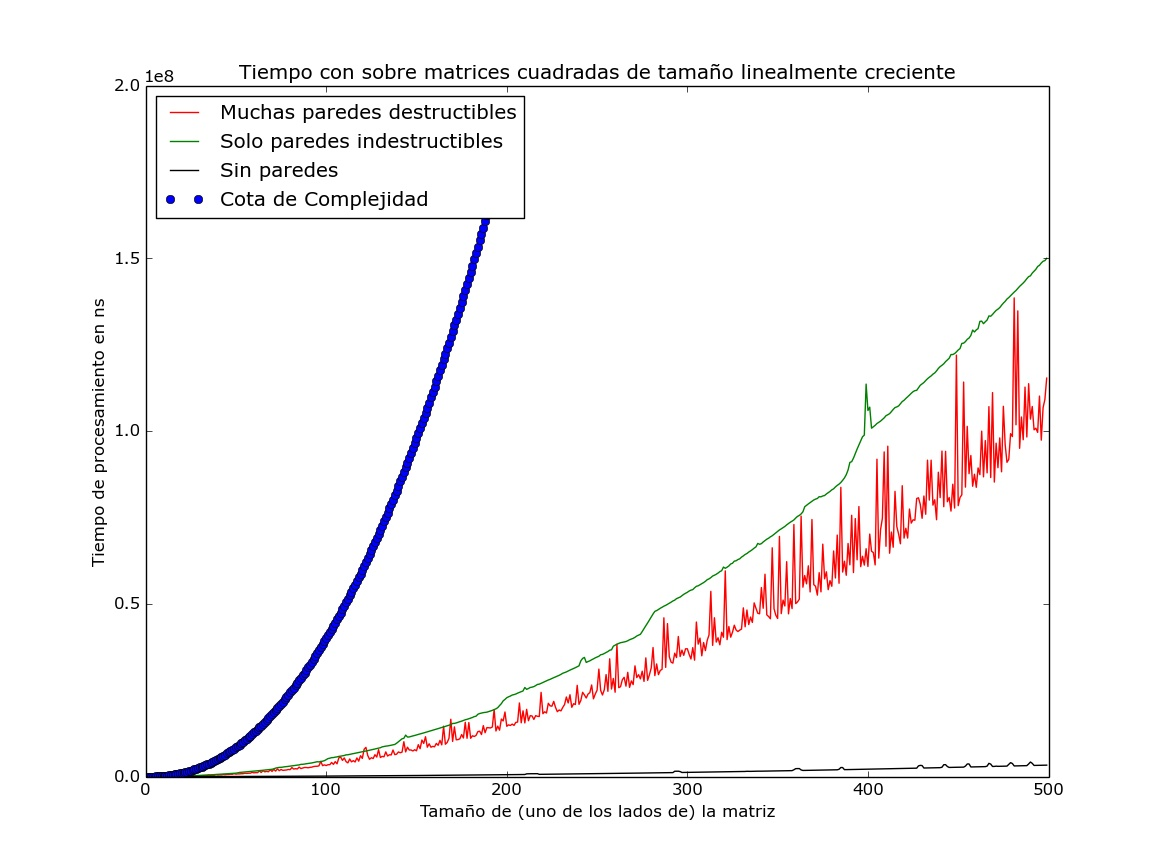
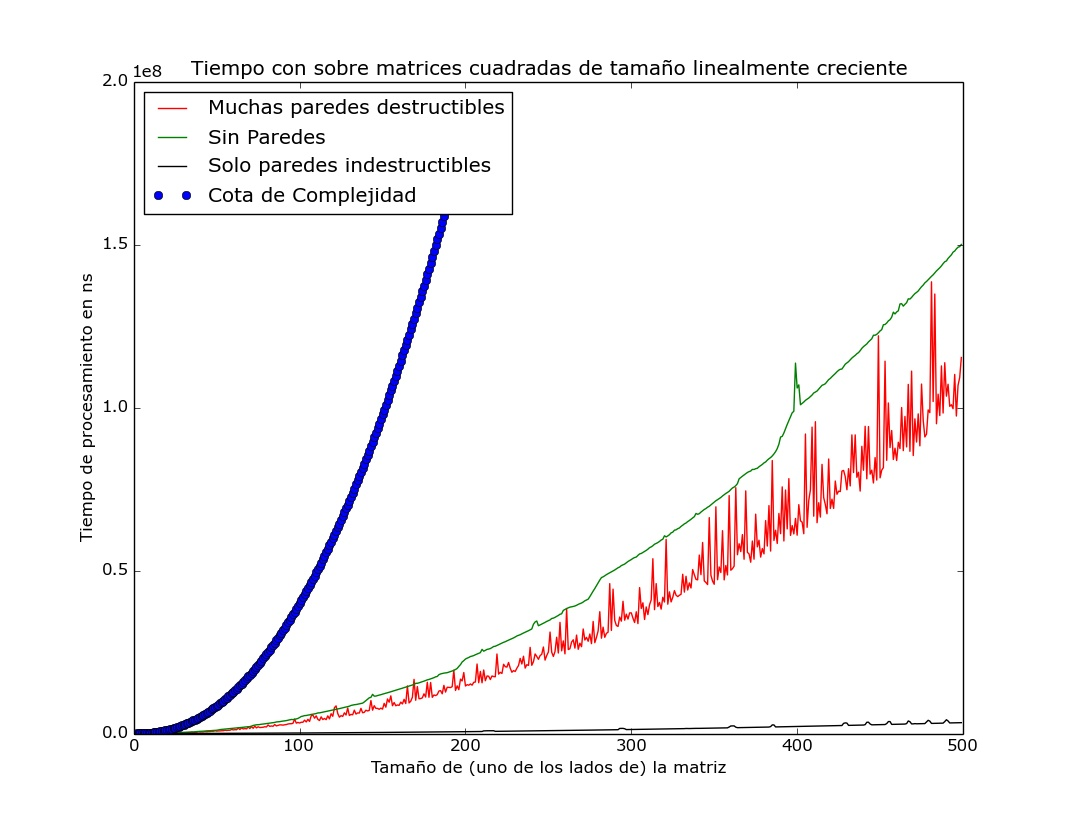
fix grafico ej2

diff --git a/exp/graficarEj2.py b/exp/graficarEj2.py
@@ -54,8 +54,8 @@ fig = plt.figure()
 fig.patch.set_facecolor('white')
 ax1 = fig.add_subplot(111)
 pylab.plot(tamanosMatricesNP, promedio1NP,'r', label= 'Muchas paredes destructibles')
-pylab.plot(tamanosMatricesNP, promedio2NP,'g', label= 'Solo paredes indestructibles')
-pylab.plot(tamanosMatricesNP, promedio3NP,'black', label= 'Sin paredes')
+pylab.plot(tamanosMatricesNP, promedio2NP,'g', label= 'Sin Paredes')
+pylab.plot(tamanosMatricesNP, promedio3NP,'black', label= 'Solo paredes indestructibles')
 pylab.plot(deAUno, grafCota,'bo', label= 'Cota de Complejidad')
 
 
